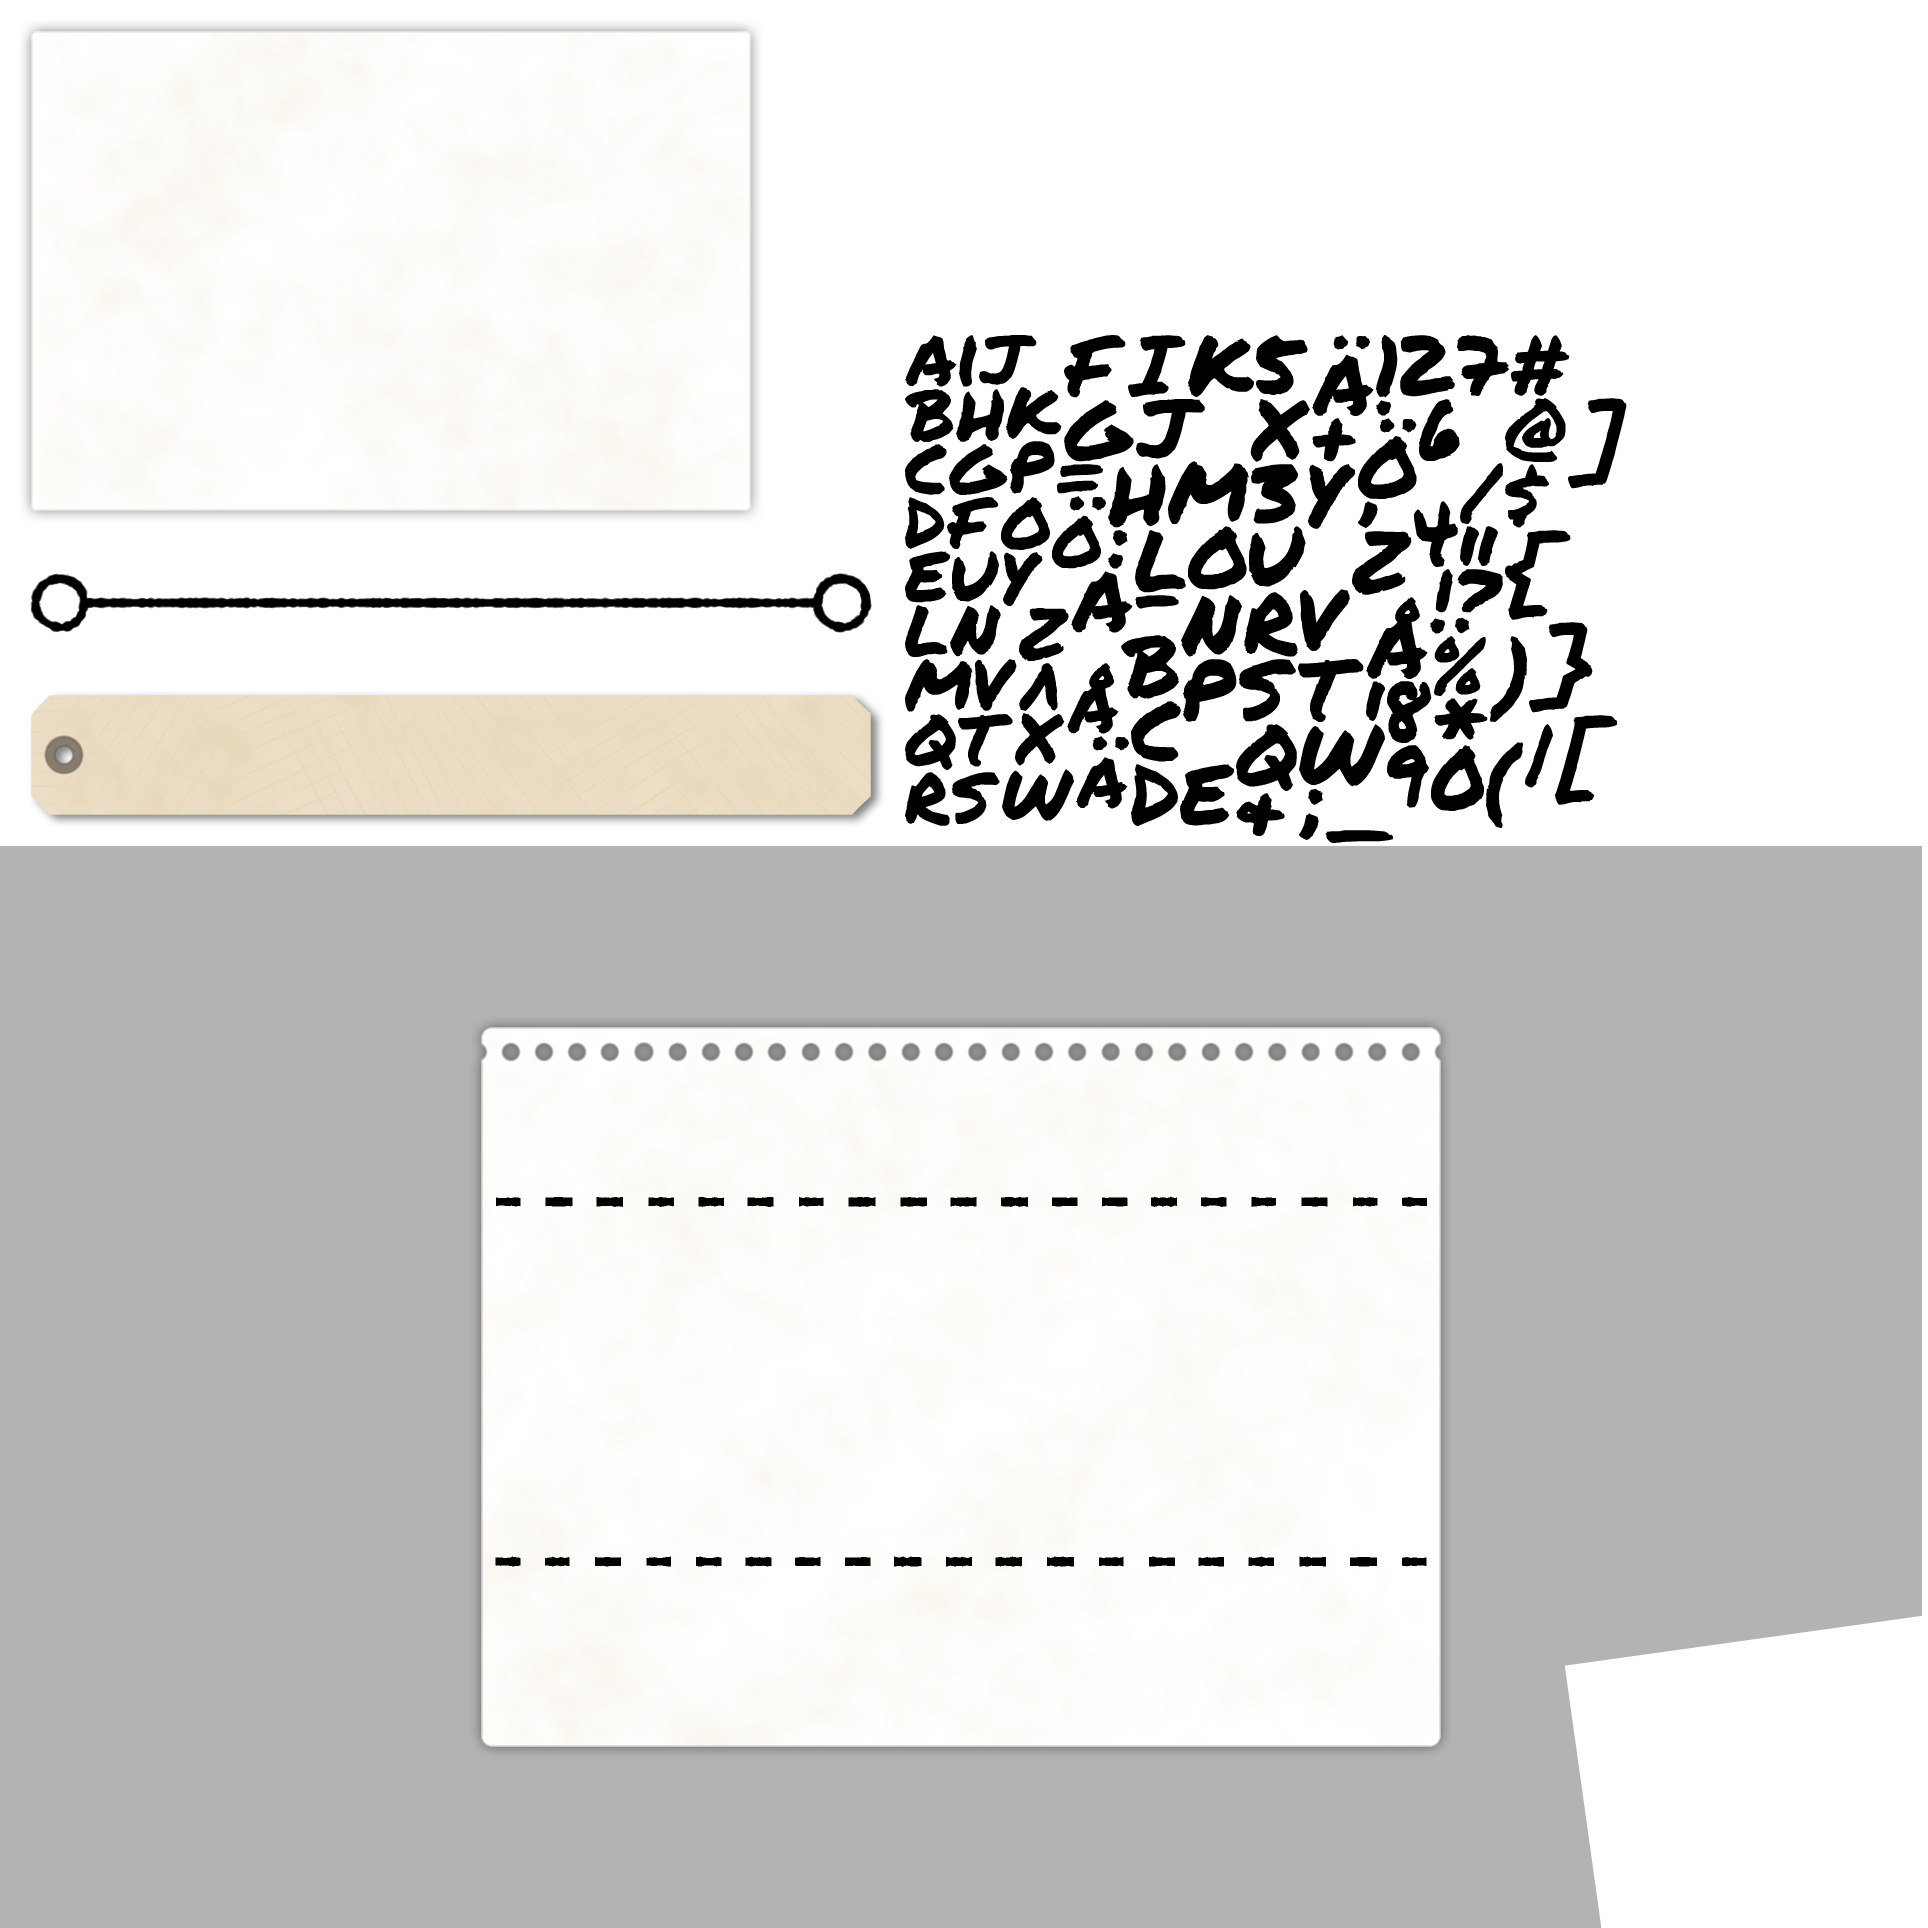
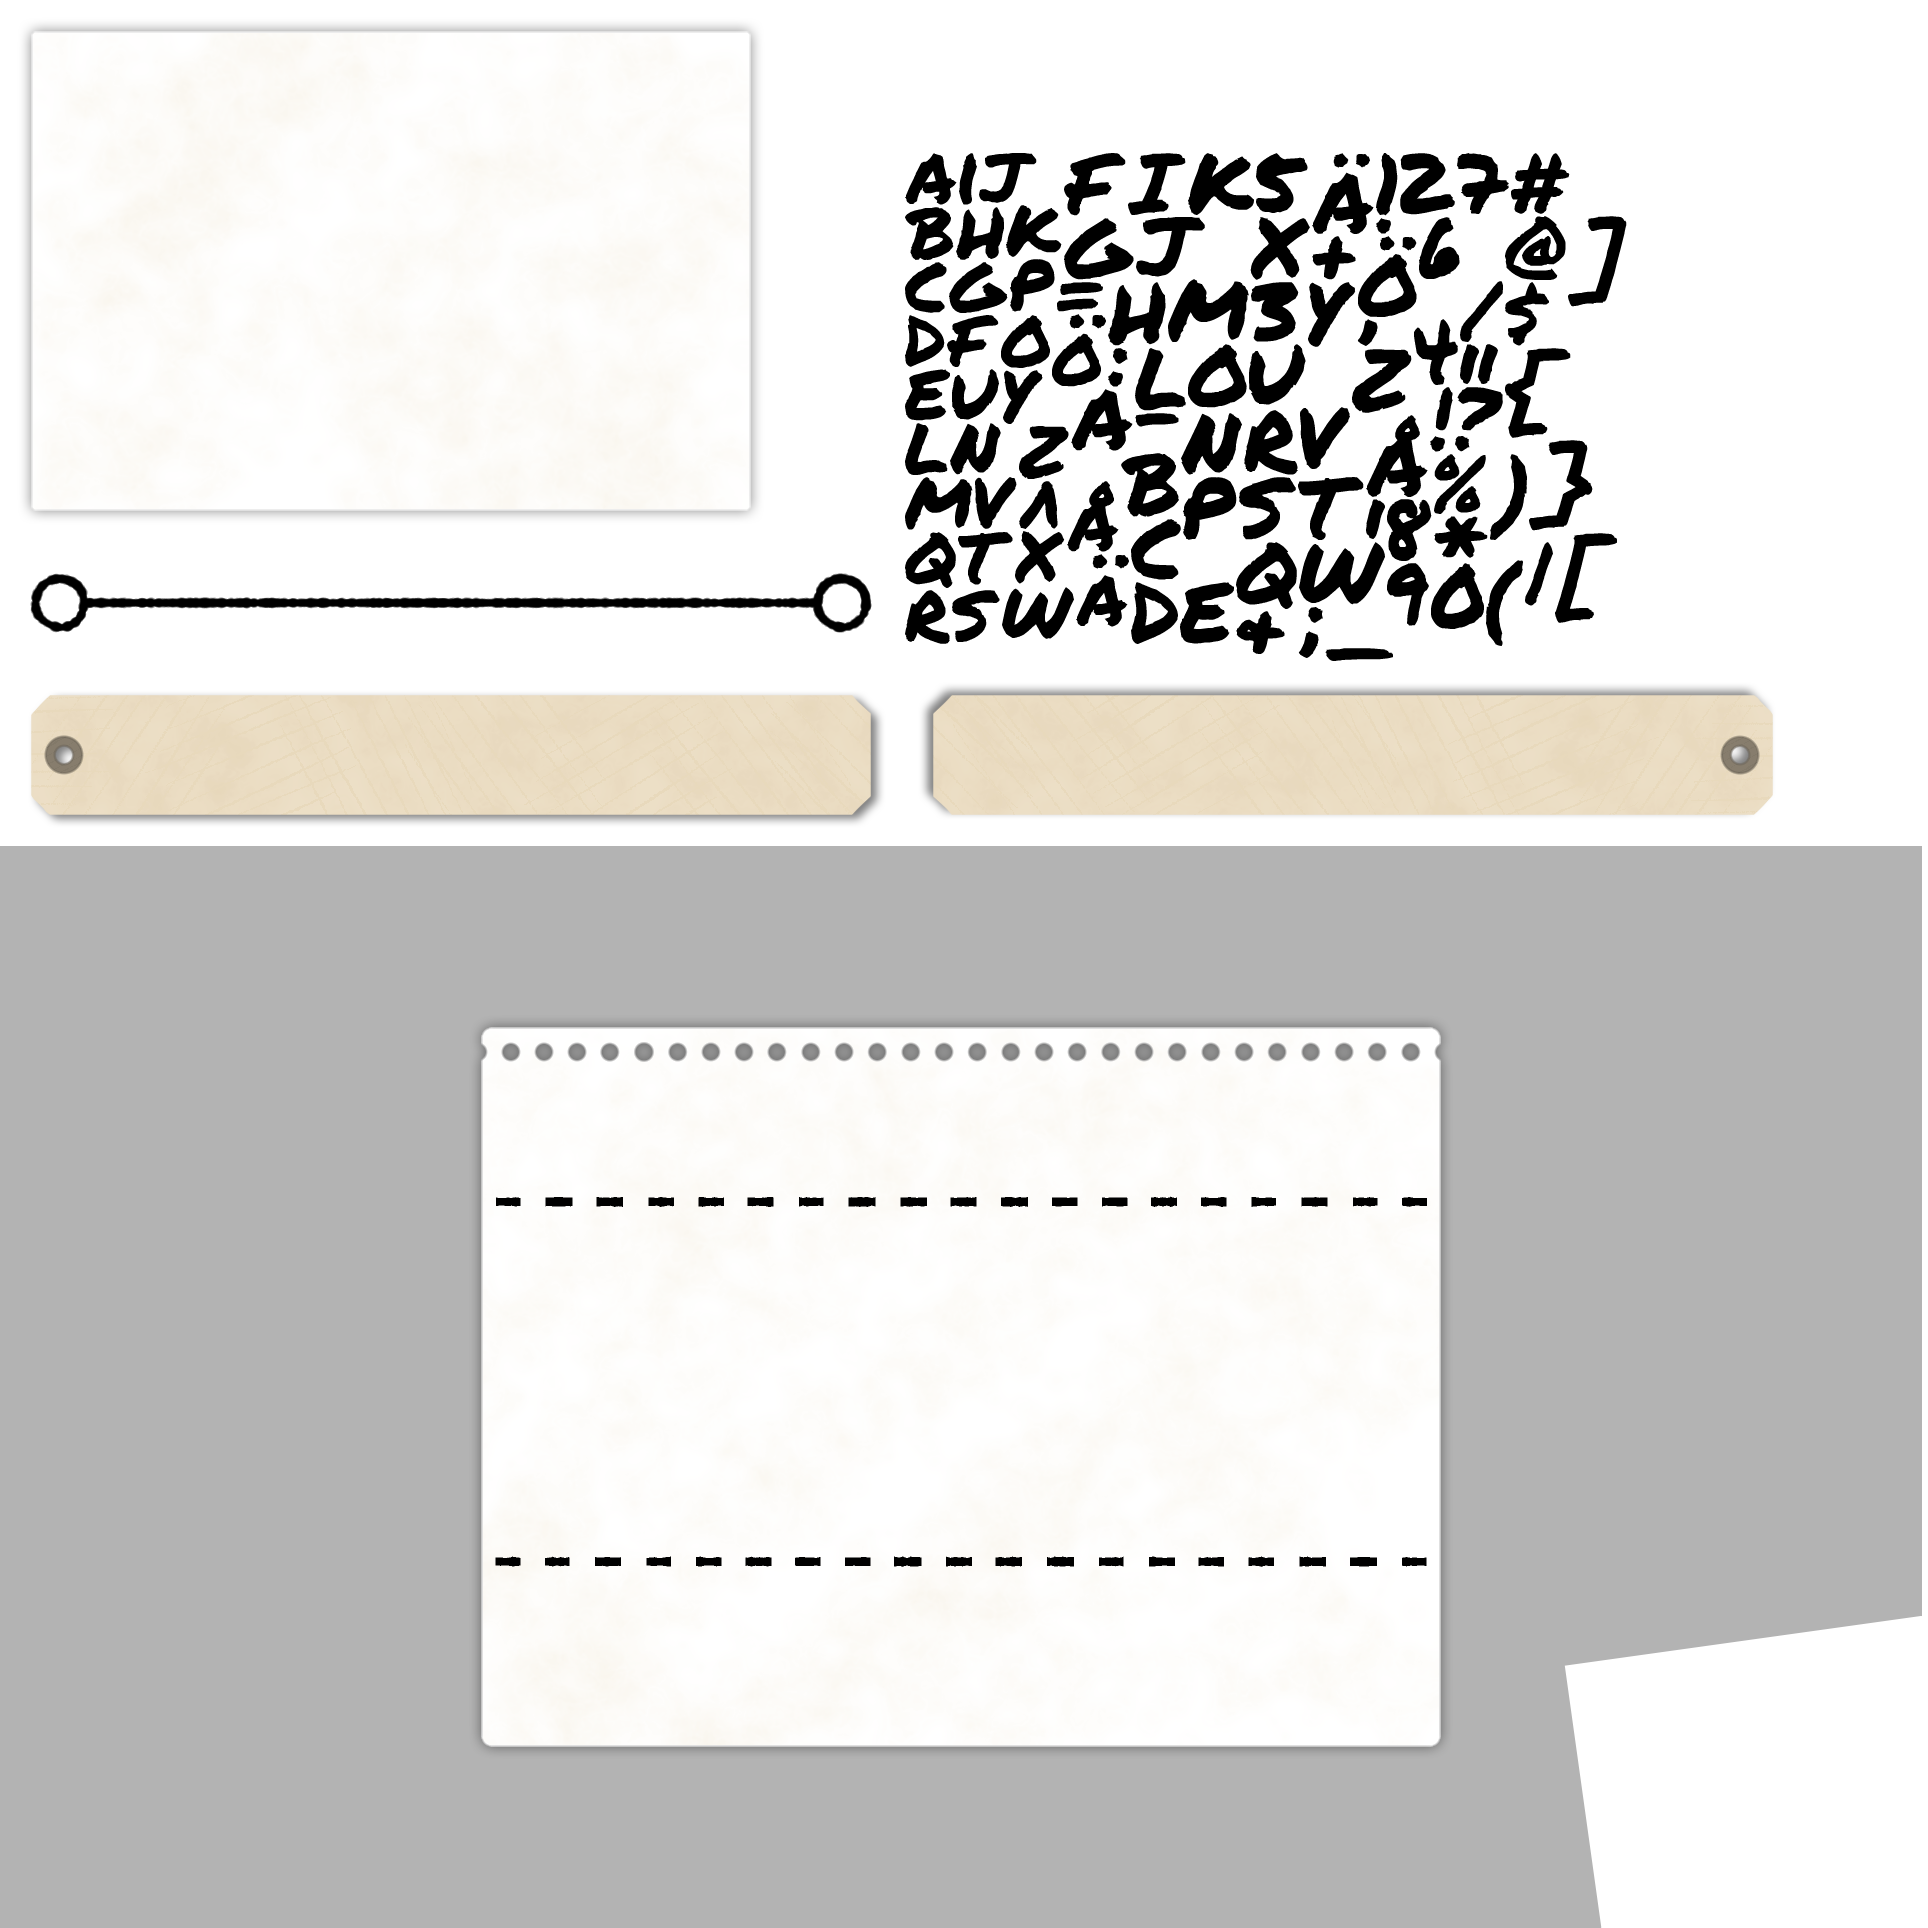
Enemy now has different skillname-background.

Changed region(s): [[0.4668, 0.0622, 0.9336, 0.4357]]

diff --git a/core/src/fi/tamk/fi/RoomFight.java b/core/src/fi/tamk/fi/RoomFight.java
@@ -1091,7 +1091,7 @@ public class RoomFight extends RoomParent {
                 turnState = DOING_ACTION;
                 removeButtons();
                 action = localize.get(action);
-                dialog.showSkillName(action);
+                dialog.showSkillName(action, "skillname");
 
                 if (!opponent.normalSize) {
                     if (curHitAnimation == files.animPhysicalHit) {
@@ -1133,7 +1133,7 @@ public class RoomFight extends RoomParent {
             anim.startAnimation(curAnimation, animSpeed);
             turnState = DOING_ACTION;
             removeButtons();
-            dialog.showSkillName(localize.get(item));
+            dialog.showSkillName(localize.get(item), "skillname");
         }
 
         public void createActionButtons() {
@@ -1367,7 +1367,7 @@ public class RoomFight extends RoomParent {
                     }
                 }
                 String localizedName = localize.get(skillNames[random]);
-                dialog.showSkillName(localizedName);
+                dialog.showSkillName(localizedName, "skillname_enemy");
 
                 // Play sound if not null
                 if (sounds[random] != null) sounds[random].play();

diff --git a/core/src/fi/tamk/fi/UtilDialog.java b/core/src/fi/tamk/fi/UtilDialog.java
@@ -79,7 +79,7 @@ public class UtilDialog {
         return dialog;
     }
 
-    public void showSkillName(String text) {
+    public void showSkillName(String text, String skillStyle) {
         skillNameOn = true;
         float areaSize = 800f;
         float x = game.pixelWidth/2 - areaSize/2;
@@ -89,7 +89,7 @@ public class UtilDialog {
         label.setWrap(true);
         label.setAlignment(1);
 
-        final Dialog dialog = new Dialog("", finalSkin, "skillname");
+        final Dialog dialog = new Dialog("", finalSkin, skillStyle);
         dialog.getContentTable().add(label).prefWidth(areaSize);
         dialog.setSize(areaSize,label.getHeight()*2);
         dialog.setPosition(x,y);
